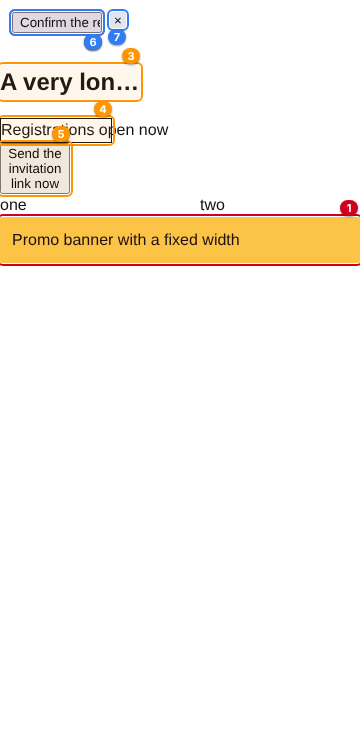
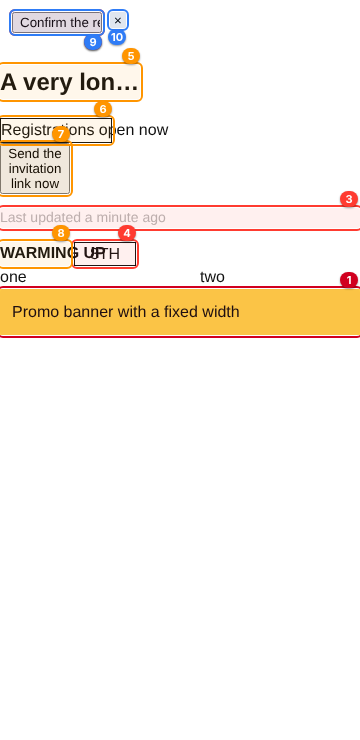
responsive-check: detect overlaps and low contrast, refresh docs
Adds overlap and WCAG contrast checks, a 320px phone-xs viewport, less
obstructive annotations, and fixture cases for each check. Evals gain
assertions for the real overlap found on the test app's ranking.

Claude-Session: https://claude.ai/code/session_019V1fX8WbN36fovBgwbAeXS

diff --git a/skills/responsive-check/templates/report.html b/skills/responsive-check/templates/report.html
@@ -52,6 +52,8 @@ const LABEL = {
   'overflow-viewport': 'Element sticks out of the viewport',
   'text-clipped': 'Text is cut off',
   'text-overflows-box': 'Text spills out of its container',
+  'overlap': 'Elements overlap each other',
+  'low-contrast': 'Text contrast below WCAG minimum',
   'control-wraps': 'Button label wraps onto 3+ lines',
   'text-truncated': 'Text truncated with ellipsis',
   'small-tap-target': 'Tap target smaller than 24×24px',
@@ -72,7 +74,7 @@ function render(r) {
     const d = f.seen[0].detail
     out.push(`<section class="finding" style="--sev: var(--${f.severity})"><div>
       <h3><span class="pill">${f.severity.toUpperCase()}</span>${esc(f.id)} · ${esc(LABEL[f.type] || f.type)}</h3>
-      <p>Screen <code>${esc(f.route)}</code>${f.examples.filter(Boolean).length ? " — " + f.examples.filter(Boolean).slice(0, 3).map((t) => "“" + esc(t) + "”").join(", ") + (f.examples.length > 1 ? ` (${f.examples.length} elements)` : "") : ""}</p>
+      <p>Screen ${f.routes.map((x) => "<code>" + esc(x) + "</code>").join(", ")}${f.examples.filter(Boolean).length ? " — " + f.examples.filter(Boolean).slice(0, 3).map((t) => "“" + esc(t) + "”").join(", ") + (f.examples.length > 1 ? ` (${f.examples.length} elements)` : "") : ""}</p>
       <p><code>${esc(f.selector)}</code></p>
       ${d ? `<p class="meta">${Object.entries(d).map(([k, v]) => esc(k) + ': ' + esc(v)).join(' · ')}</p>` : ''}
       <div class="seen">${f.seen.map((x) => x.shot ? `<a href="${esc(x.shot)}">${x.width}px ${x.theme} #${x.n}</a>` : `<span>${x.width}px ${x.theme}</span>`).join('')}</div>

diff --git a/tools/fixtures/broken.html b/tools/fixtures/broken.html
@@ -15,6 +15,10 @@
   .title { width: 140px; white-space: nowrap; overflow: hidden; text-overflow: ellipsis; }
   .icon { width: 16px; height: 16px; padding: 0; border: 0; }
   .wrap { width: 70px; }
+  .row { display: flex; gap: 4px; width: 200px; }
+  .row .badge { flex: 0 0 70px; min-width: 0; white-space: nowrap; font-weight: 700; }
+  .row .pill { flex: 0 0 60px; border: 1px solid; text-align: center; }
+  .faint { color: #b8b8b8; font-size: 14px; }
   .scroller { overflow-x: auto; white-space: nowrap; }
   .scroller span { display: inline-block; width: 200px; }
 </style>
@@ -24,6 +28,8 @@
   <h2 class="title">A very long section title that does not fit</h2>
   <div class="tag">Registrations open now</div>
   <button class="wrap">Send the invitation link now</button>
+  <p class="faint">Last updated a minute ago</p>
+  <div class="row"><span class="badge">WARMING UP</span><span class="pill">8TH</span></div>
   <div class="scroller"><span>one</span><span>two</span><span>three</span></div>
   <div class="promo">Promo banner with a fixed width</div>
 </body>

diff --git a/skills/responsive-check/SKILL.md b/skills/responsive-check/SKILL.md
@@ -56,6 +56,11 @@ Set `locale` to the app's real audience: the browser defaults to en-US and
 many apps switch language from it, and Spanish or German strings are longer —
 which is precisely where layouts break.
 
+If the user only cares about some widths or one theme ("el celu chico en
+modo oscuro"), pass `--viewports` / `--themes` instead of running all six
+combinations. Add `phone-xs` (320px) when the audience has older or small
+phones, or when 360px is clean but tight: many collisions only show up there.
+
 ## 3. Run it
 
 ```bash
@@ -100,10 +105,12 @@ whether it matters:
 - **Check the redirect warning.** If a route redirected (e.g. to `/login`),
   the auth setup is wrong and every screenshot of it shows the wrong page.
   Fix the config and rerun rather than reporting on the login screen.
-- **Look for what the detector cannot see**: dark-mode text with too little
-  contrast, an image squashed, a fixed bar covering the last item, content
-  hidden behind the on-screen keyboard. Mention these separately as
-  "seen in screenshots".
+- **Look for what the detector cannot see**: contrast over images or
+  gradients (it only measures solid backgrounds), an image squashed, a fixed bar covering the last item, a gap
+  between two stacked fixed bars (a floating button above a tab bar) where
+  the list shows through, content hidden behind the on-screen keyboard.
+  Mention these separately as "seen in screenshots". Check the bottom of
+  each scrolled shot: that is where fixed bars meet content.
 - **Do not leak people's data.** If screenshots show real names, emails or
   photos (not demo data), add their selectors to `mask` and rerun before
   sharing images.
@@ -141,8 +148,8 @@ Severity guide used by the script (adjust if the context says otherwise):
 | Severity | What |
 |---|---|
 | critical | Page scrolls horizontally; JavaScript error on the page |
-| high | Element sticks out of the viewport; text cut off without ellipsis; text spilling out of a button or heading |
-| medium | Text spilling out of other boxes; button label wrapping to 3+ lines; ellipsis on a button or heading |
+| high | Element sticks out of the viewport; text cut off without ellipsis; text spilling out of a button or heading; two pieces of content overlapping (a badge running into a pill) |
+| medium | Text contrast under WCAG 4.5:1 (high when far below); text spilling out of other boxes; button label wrapping to 3+ lines; ellipsis on a button or heading |
 | low | Ellipsis on body text; tap target under 24×24px |
 
 Do not fix the app's code unless the user asks; offer to.

diff --git a/skills/responsive-check/references/config.md b/skills/responsive-check/references/config.md
@@ -10,7 +10,7 @@ Command-line flags override the config (run the script with `--help`).
 | `start.cwd` | string | config dir | Where to run `start.command`. |
 | `start.timeoutMs` | number | 90000 | How long to wait for the app to answer. |
 | `routes` | array | `["/"]` | Paths to visit. Each item is a string or an object (below). |
-| `viewports` | array | 360, 390, 1280 | Names (`phone-small`, `phone`, `desktop`), `"WIDTHxHEIGHT"` strings, or `{ "name", "width", "height", "mobile" }`. |
+| `viewports` | array | 360, 390, 1280 | Names (`phone-xs` 320, `phone-small`, `phone`, `desktop`), `"WIDTHxHEIGHT"` strings, or `{ "name", "width", "height", "mobile" }`. |
 | `themes` | array | `["light", "dark"]` | Color schemes to emulate (`prefers-color-scheme`). |
 | `themeStorage` | object | — | `{ "key": "app.theme", "values": { "light": "light", "dark": "dark" } }`: also writes the app's stored theme choice so it matches the emulated scheme. `values` defaults to the theme names. |
 | `locale` | string | browser default (en-US) | e.g. `es-AR`. Sets `navigator.language` and `Accept-Language`. |
@@ -61,6 +61,8 @@ Command-line flags override the config (run the script with `--help`).
 | `overflow-viewport` | An element's box extends past the left/right edge of the viewport and no ancestor clips or scrolls it. Critical when the page scrolls horizontally. |
 | `text-clipped` | A box with `overflow: hidden/clip` and no ellipsis hides part of its own text. |
 | `text-overflows-box` | Text extends past the block that contains it (`overflow: visible`). |
+| `overlap` | Two pieces of content paint over each other: text lines, or boxes with a background/border (pills, badges). Positioned layers, negative margins and transforms are skipped as intentional. |
+| `low-contrast` | Text below WCAG 1.4.3 contrast (4.5:1, or 3:1 for large text) against its solid backdrop, counting opacity. Skipped over images/gradients. One finding per color pair for the whole app. |
 | `control-wraps` | A button/tab label breaks onto 3 or more lines. |
 | `text-truncated` | Ellipsis or line-clamp is hiding text. Often intentional; worth a look on buttons and headings. |
 | `small-tap-target` | A control smaller than 24×24px (WCAG 2.5.8), except links inline in a sentence. |

diff --git a/README.es.md b/README.es.md
@@ -40,12 +40,12 @@ Pedilo como te salga: "fijate cómo se ve en el celu antes de publicar", "en /ch
 <table>
 <tr>
 <td><img src="docs/images/annotated-historial-360-light.png" width="240" alt="Captura marcada en celular, modo claro"></td>
-<td><img src="docs/images/annotated-home-360-dark.png" width="240" alt="Captura marcada en celular, modo oscuro"></td>
+<td><img src="docs/images/annotated-ranking-360-dark.png" width="240" alt="Captura marcada en celular, modo oscuro"></td>
 <td><img src="docs/images/annotated-fixture-360-light.png" width="240" alt="Captura marcada de una página con errores sembrados"></td>
 </tr>
 <tr>
-<td>360px, claro: botones chicos para el dedo</td>
-<td>360px, oscuro</td>
+<td>360px, claro: poco contraste y botones chicos</td>
+<td>360px, oscuro: "▼ -27" se mete en el badge</td>
 <td>Página de prueba con errores a propósito</td>
 </tr>
 </table>
@@ -55,8 +55,8 @@ Pedilo como te salga: "fijate cómo se ve en el celu antes de publicar", "en /ch
 | Prioridad | Hallazgo |
 |---|---|
 | crítica | La página scrollea de costado · error de JavaScript al cargar |
-| alta | Un elemento se sale de la pantalla · texto cortado sin "…" · texto que se sale de un botón o título |
-| media | Texto que se sale de otras cajas · botón con el texto en 3+ líneas · "…" en botones o títulos |
+| alta | Un elemento se sale de la pantalla · texto cortado sin "…" · texto que se sale de un botón o título · contenido que se pisa (un badge que se mete en otro) |
+| media | Contraste de texto bajo WCAG 4,5:1 · texto que se sale de otras cajas · botón con el texto en 3+ líneas · "…" en botones o títulos |
 | baja | "…" en texto común · objetivo táctil de menos de 24×24px (WCAG 2.5.8) |
 
 El mismo problema visto en varios tamaños, o en todas las filas de una lista, se reporta una sola vez.

diff --git a/README.md b/README.md
@@ -40,12 +40,12 @@ Ask in your own words — "check how the app looks on mobile before I ship", "so
 <table>
 <tr>
 <td><img src="docs/images/annotated-historial-360-light.png" width="240" alt="Annotated phone screenshot, light mode"></td>
-<td><img src="docs/images/annotated-home-360-dark.png" width="240" alt="Annotated phone screenshot, dark mode"></td>
+<td><img src="docs/images/annotated-ranking-360-dark.png" width="240" alt="Annotated phone screenshot, dark mode"></td>
 <td><img src="docs/images/annotated-fixture-360-light.png" width="240" alt="Annotated screenshot of a page with planted layout bugs"></td>
 </tr>
 <tr>
-<td>360px, light: small tap targets</td>
-<td>360px, dark</td>
+<td>360px, light: low contrast and small tap targets</td>
+<td>360px, dark: "▼ -27" runs into the badge</td>
 <td>Test fixture with planted bugs</td>
 </tr>
 </table>
@@ -57,8 +57,8 @@ Ask in your own words — "check how the app looks on mobile before I ship", "so
 | Severity | Finding |
 |---|---|
 | critical | The page scrolls horizontally · JavaScript error while loading |
-| high | Element sticks out of the viewport · text cut off without ellipsis · text spilling out of a button or heading |
-| medium | Text spilling out of other boxes · button label wrapping to 3+ lines · ellipsis on buttons/headings |
+| high | Element sticks out of the viewport · text cut off without ellipsis · text spilling out of a button or heading · content overlapping (a badge running into a pill) |
+| medium | Text contrast under WCAG 4.5:1 · text spilling out of other boxes · button label wrapping to 3+ lines · ellipsis on buttons/headings |
 | low | Ellipsis on body text · tap target under 24×24px (WCAG 2.5.8) |
 
 The same problem seen at several widths or on every row of a list is reported once.
